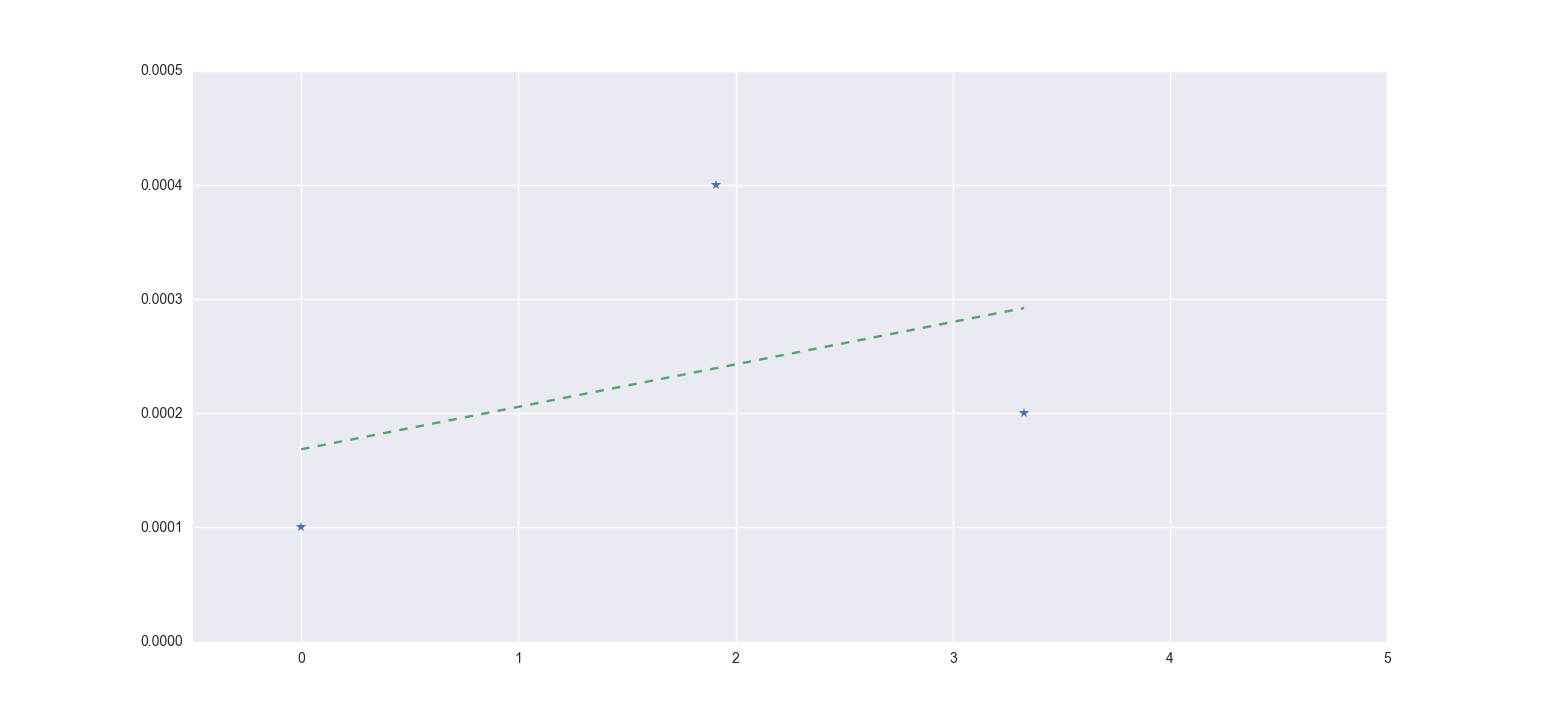
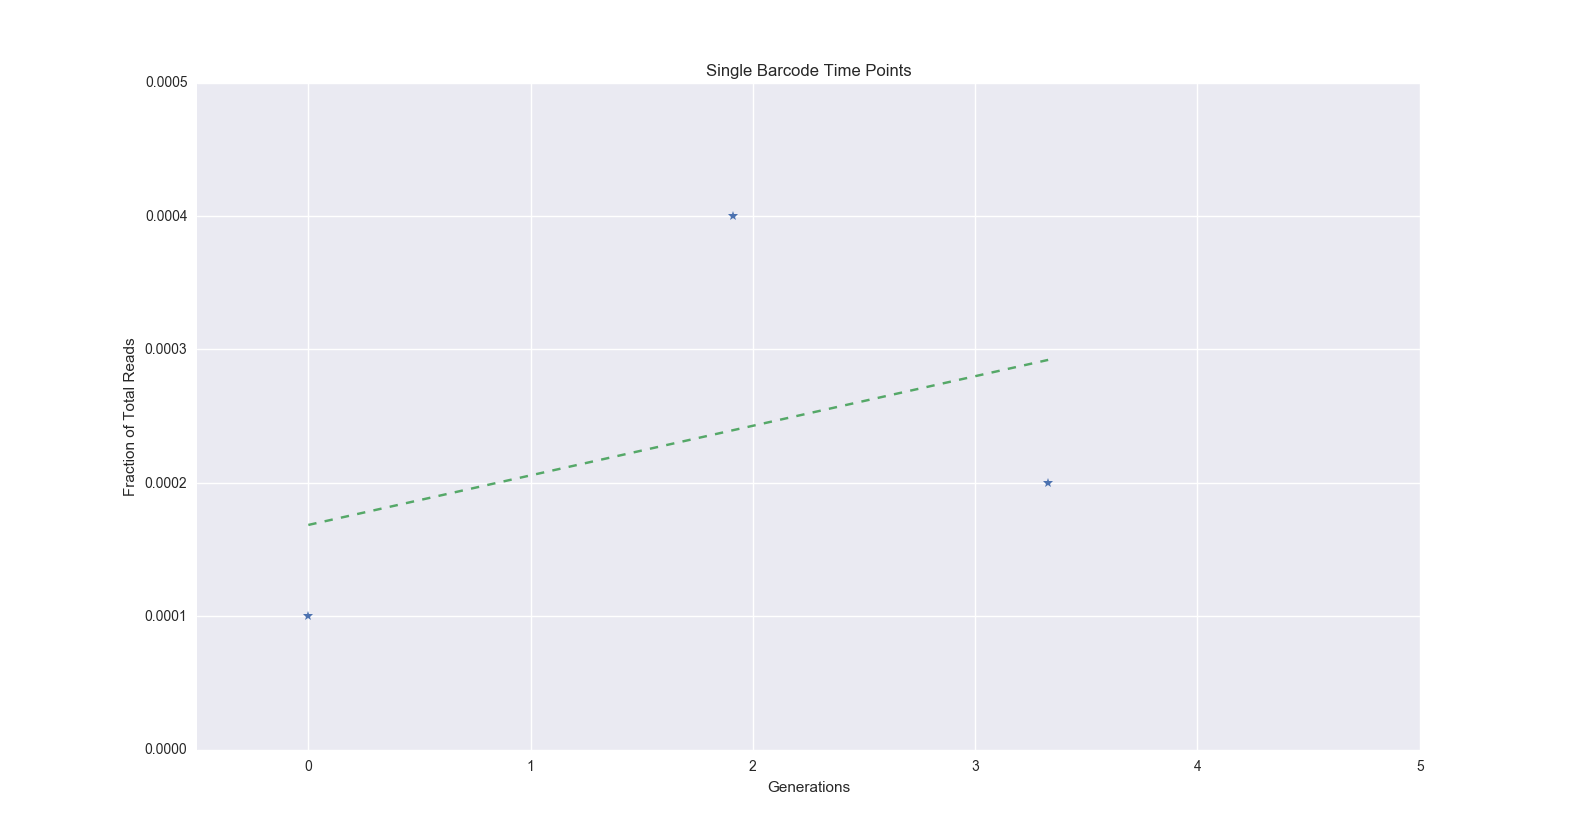
Added labels because Beatrice wanted them

diff --git a/fitness_scores/jupyter/plot_timepoints.py b/fitness_scores/jupyter/plot_timepoints.py
@@ -17,6 +17,9 @@ plt.plot(time_points, values, '*')
 plt.plot(time_points, best_fit_line, '--')
 plt.xlim(-0.5, 5)
 plt.ylim(0, 0.0005)
+plt.xlabel('Generations')
+plt.ylabel('Fraction of Total Reads')
+plt.title('Single Barcode Time Points')
 # # plt.ylabels([''])
 plt.show()
 
